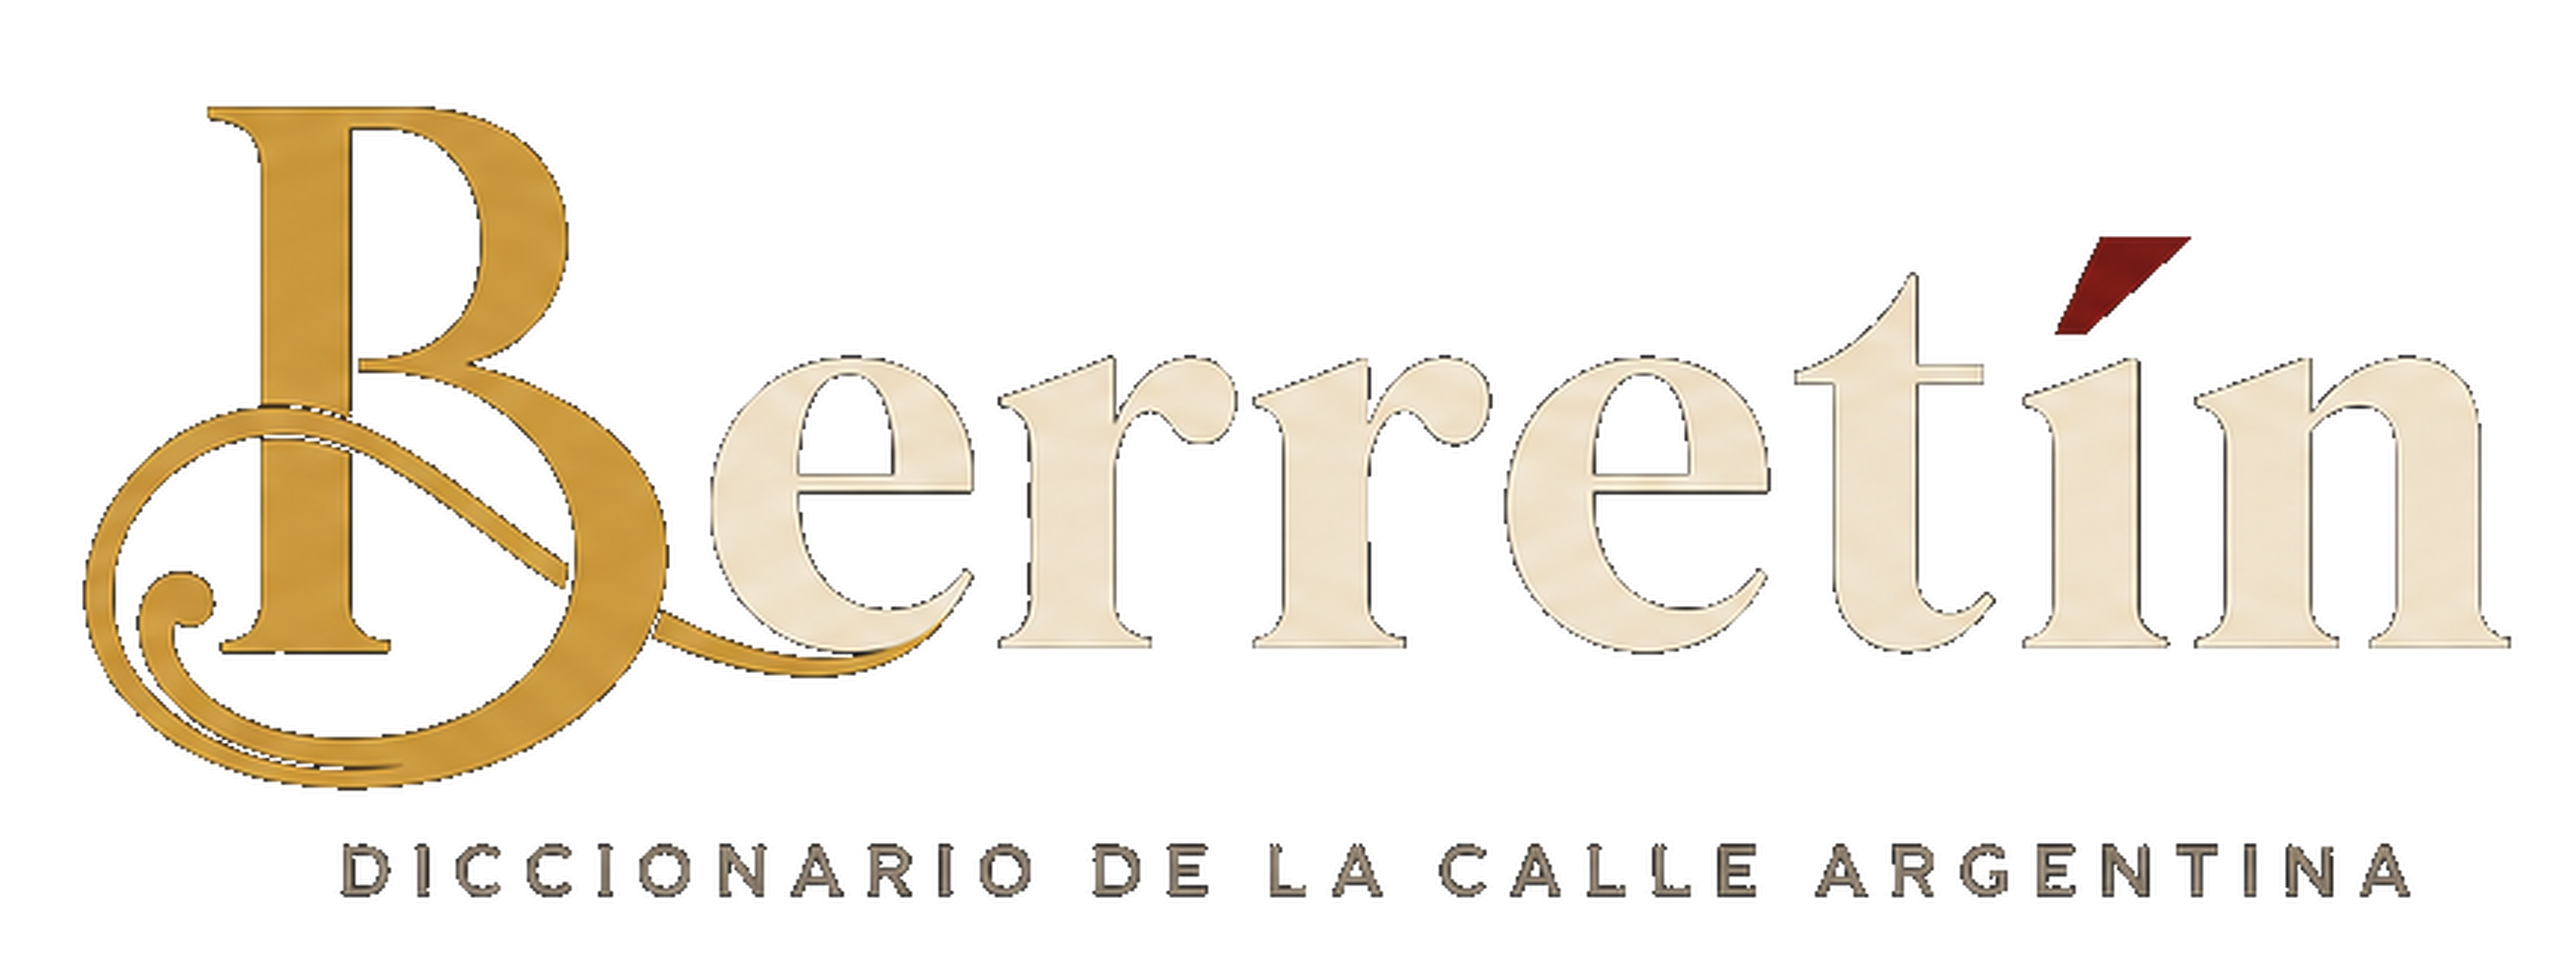
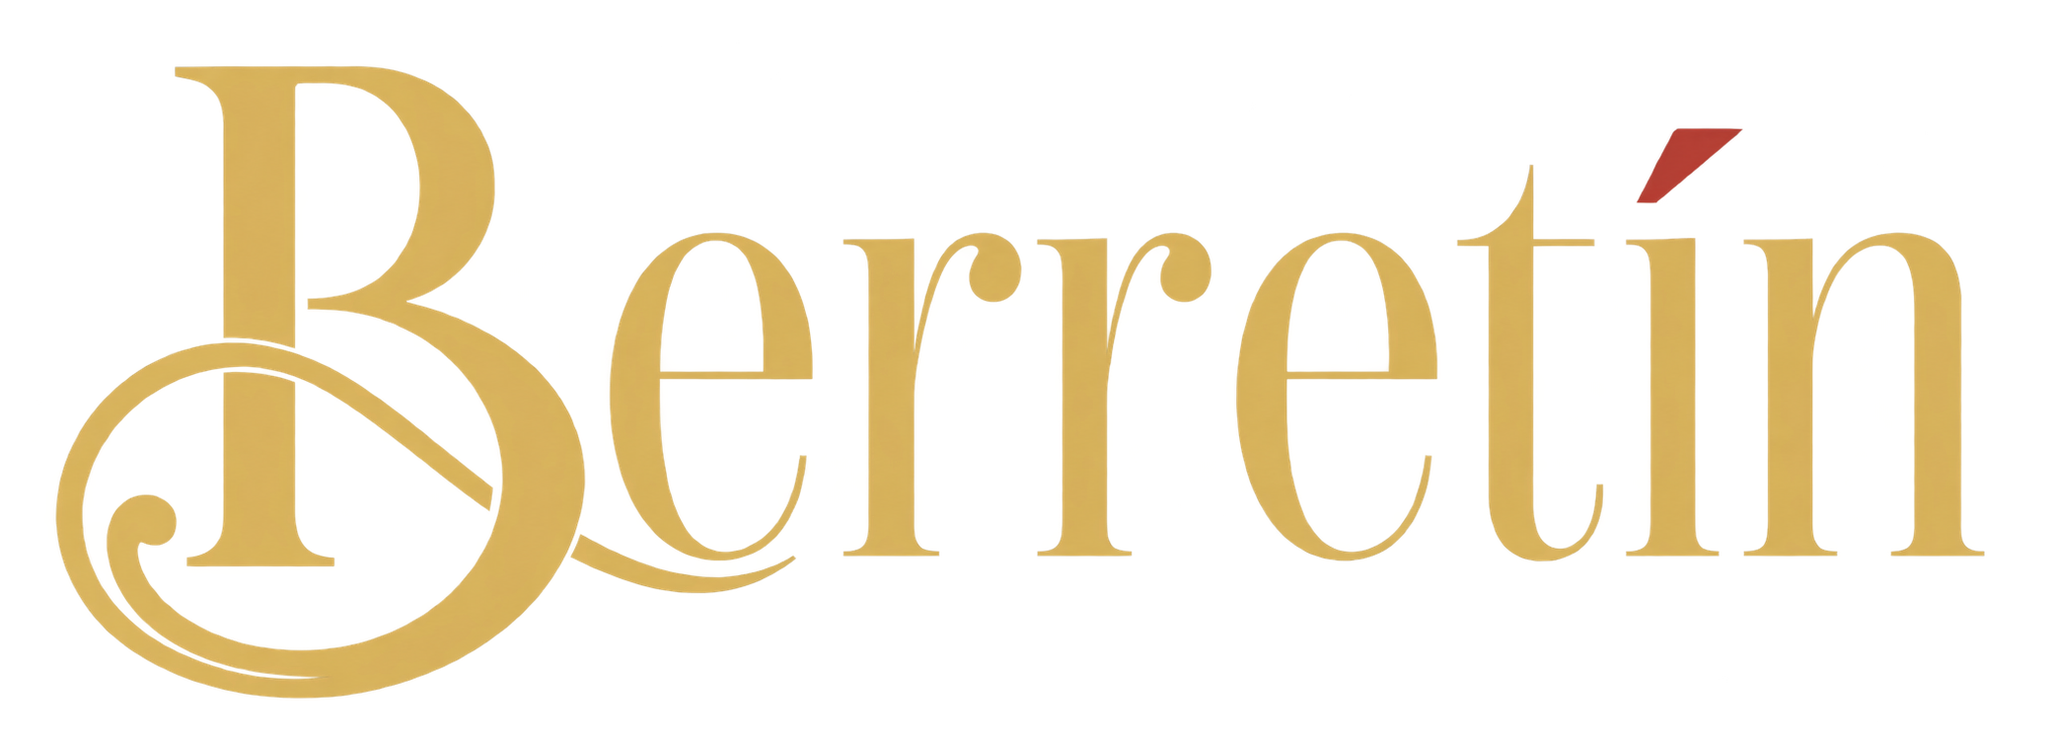
Flecha flotante al buscador + rediseño del hero cinematográfico
Flecha fija (esquina inferior derecha, fuera de la cortina transformada)
que lleva siempre al inicio exacto del buscador y filtros, revelando la
cortina primero si hace falta.

Hero: wordmark PNG final, sin eyebrow, descriptor propio en HTML,
buscador "papel de archivo" recreado en CSS sobre el SearchBar
funcional (con botón de submit opcional), entrada cinematográfica y
reflejo dorado único vía CSS, respetando prefers-reduced-motion y el
scroll/parallax existentes.

Changed region(s): [[0.0, 0.0913, 0.9851, 0.9431]]

diff --git a/app/globals.css b/app/globals.css
@@ -97,16 +97,62 @@ header { margin-bottom:32px; padding-bottom:28px; border-bottom:1px solid var(--
 .cinehero-vignette { position:absolute; inset:0; z-index:7; pointer-events:none; background:radial-gradient(ellipse at center, rgba(20,23,28,.12) 0%, rgba(20,23,28,.4) 58%, rgba(20,23,28,.74) 100%), linear-gradient(180deg, rgba(20,23,28,.34) 0%, rgba(20,23,28,.06) 38%, rgba(20,23,28,.64) 100%); }
 .cinehero-corner-shadow { position:absolute; inset:0; z-index:7; pointer-events:none; background:radial-gradient(ellipse at 0% 100%, rgba(10,12,15,.82) 0%, rgba(10,12,15,.46) 22%, transparent 55%); }
 .cinehero-content { position:relative; z-index:8; display:flex; height:100%; flex-direction:column; align-items:center; justify-content:center; padding:32px 24px; text-align:center; text-shadow:0 2px 18px rgba(0,0,0,.5); }
-.cinehero-eyebrow { max-width:420px; color:var(--crema); font-size:11px; letter-spacing:1.7px; text-transform:uppercase; }
-.cinehero-logo { margin-top:16px; filter:drop-shadow(0 4px 16px rgba(0,0,0,.42)); }
-.cinehero-search { width:min(420px, 100%); margin-top:30px; margin-bottom:0; box-shadow:0 8px 30px rgba(0,0,0,.35); }
-.cinehero-cue { position:absolute; left:50%; bottom:clamp(24px, 5vh, 48px); z-index:8; transform:translateX(-50%); border:0; background:none; color:var(--crema); cursor:pointer; font:500 11px var(--font-space-grotesk), sans-serif; letter-spacing:1.4px; text-transform:uppercase; text-shadow:0 2px 12px rgba(0,0,0,.5); display:flex; align-items:center; gap:8px; animation:cinehero-cue-bob 2.2s ease-in-out infinite; }
+.cinehero-wordmark-wrap { position:relative; display:inline-block; }
+.cinehero-logo { display:block; filter:none; mix-blend-mode:normal; }
+/* Reflejo dorado único: no toca el PNG — es una capa aparte enmascarada
+   con el mismo archivo (mask-image usa su canal alfa), así el brillo solo
+   se ve por donde ya hay letra. Arranca recién cuando el wordmark termina
+   de entrar y no se repite. */
+.cinehero-wordmark-sheen { position:absolute; inset:0; pointer-events:none; opacity:0; -webkit-mask-image:url(/brand/berretin-wordmark.png); mask-image:url(/brand/berretin-wordmark.png); -webkit-mask-size:contain; mask-size:contain; -webkit-mask-repeat:no-repeat; mask-repeat:no-repeat; -webkit-mask-position:center; mask-position:center; background:linear-gradient(115deg, transparent 42%, rgba(241,230,214,.8) 50%, transparent 58%); background-size:260% 100%; background-position:160% 0; }
+.cinehero-descriptor { margin-top:14px; color:var(--crema); font:600 clamp(11px, 1.05vw, 16px) var(--font-space-grotesk), sans-serif; letter-spacing:.28em; text-transform:uppercase; }
+
+@media (prefers-reduced-motion:no-preference) {
+  .cinehero-logo { animation:cinehero-wordmark-in 900ms ease-out both; }
+  .cinehero-descriptor { animation:cinehero-descriptor-in 700ms ease-out 550ms both; }
+  .cinehero-search.search-row { animation:cinehero-search-in 700ms ease-out 950ms both; }
+  .cinehero-wordmark-sheen { animation:cinehero-wordmark-sheen-in 1.1s ease-out 900ms forwards; }
+}
+@keyframes cinehero-wordmark-in { from { opacity:0; transform:translateY(18px); } to { opacity:1; transform:translateY(0); } }
+@keyframes cinehero-descriptor-in { from { opacity:0; filter:blur(4px); letter-spacing:.42em; } to { opacity:1; filter:blur(0); letter-spacing:.28em; } }
+@keyframes cinehero-search-in { from { opacity:0; transform:translateY(22px); filter:blur(6px); } to { opacity:1; transform:translateY(0); filter:blur(0); } }
+@keyframes cinehero-wordmark-sheen-in { 0%, 12% { opacity:0; background-position:160% 0; } 30% { opacity:1; } 78% { opacity:1; background-position:-60% 0; } 100% { opacity:0; background-position:-60% 0; } }
+
+/* Buscador cinematográfico: recreación en HTML/CSS de la referencia
+   "papel de archivo" (rectangular, doble marco, línea roja, bloque con
+   flecha) sobre el mismo <form> funcional — el buscador del diccionario
+   (.consult-search) no hereda nada de este bloque, que solo apunta a
+   .cinehero-search. */
+.cinehero-search.search-row { position:relative; width:min(680px, 76vw); height:74px; margin-top:26px; margin-bottom:0; padding:0 10px 0 30px; gap:14px; border:1px solid rgba(23,22,21,.4); border-radius:0; background-color:#E6D4AA; background-image:linear-gradient(160deg, #F0DFB6 0%, #E6D4AA 62%); box-shadow:inset 0 0 0 3px rgba(241,230,206,.65), inset 0 0 0 4px rgba(23,22,21,.14); clip-path:polygon(7px 0, calc(100% - 7px) 0, 100% 7px, 100% calc(100% - 7px), calc(100% - 7px) 100%, 7px 100%, 0 calc(100% - 7px), 0 7px); filter:drop-shadow(0 16px 30px rgba(0,0,0,.35)); transition:filter .25s ease, background-color .25s ease; }
+.cinehero-search.search-row::before { content:""; position:absolute; left:10px; top:14px; bottom:14px; width:3px; background:#A92D22; transition:top .25s ease, bottom .25s ease; }
+.cinehero-search.search-row:focus-within { background-color:#F0DFB6; filter:drop-shadow(0 18px 36px rgba(0,0,0,.42)); }
+.cinehero-search.search-row:focus-within::before { top:10px; bottom:10px; }
+.cinehero-search.search-row > svg { stroke:#171615; opacity:1; }
+.cinehero-search.search-row input { color:#171615; font-family:var(--font-fraunces), serif; font-size:17px; }
+.cinehero-search.search-row input::placeholder { color:#171615; opacity:.72; font-family:var(--font-fraunces), serif; }
+.cinehero-search .search-submit-btn { display:flex; flex-shrink:0; align-items:center; justify-content:center; width:58px; height:58px; margin-left:auto; border:0; background:#171615; color:#D3A548; cursor:pointer; clip-path:polygon(5px 0, calc(100% - 5px) 0, 100% 5px, 100% calc(100% - 5px), calc(100% - 5px) 100%, 5px 100%, 0 calc(100% - 5px), 0 5px); }
+.cinehero-search .search-submit-btn svg { width:20px; height:20px; fill:none; stroke:currentColor; stroke-width:2; stroke-linecap:round; stroke-linejoin:round; transition:transform .2s ease; }
+.cinehero-search.search-row:focus-within .search-submit-btn svg { transform:translateX(4px); }
+
+.cinehero-cue { position:absolute; left:50%; bottom:clamp(24px, 5vh, 48px); z-index:8; transform:translateX(-50%); border:0; background:none; color:var(--crema); cursor:pointer; font:500 11px var(--font-space-grotesk), sans-serif; letter-spacing:1.4px; text-transform:uppercase; text-shadow:0 2px 14px rgba(0,0,0,.62); display:flex; align-items:center; gap:8px; animation:cinehero-cue-bob 2.2s ease-in-out infinite; }
 .cinehero-cue span { color:var(--brass); font-size:14px; }
 @keyframes cinehero-cue-bob { 0%, 100% { transform:translate(-50%, 0); } 50% { transform:translate(-50%, 6px); } }
-.cinehero-audio-toggle { position:absolute; right:clamp(20px, 5vw, 56px); bottom:clamp(20px, 5vw, 48px); z-index:8; display:grid; width:38px; height:38px; place-items:center; border:1px solid rgba(237,230,214,.5); border-radius:50%; background:rgba(20,23,28,.3); color:var(--crema); cursor:pointer; text-shadow:0 2px 12px rgba(0,0,0,.5); transition:color .2s ease, border-color .2s ease, background-color .2s ease; }
-.cinehero-audio-toggle:hover { border-color:var(--crema); color:var(--brass); background:rgba(20,23,28,.5); }
+.cinehero-audio-toggle { position:absolute; right:clamp(20px, 5vw, 56px); bottom:clamp(20px, 5vw, 48px); z-index:8; display:grid; width:38px; height:38px; place-items:center; border:1px solid rgba(237,230,214,.65); border-radius:50%; background:rgba(20,23,28,.42); color:var(--crema); cursor:pointer; text-shadow:0 2px 14px rgba(0,0,0,.62); transition:color .2s ease, border-color .2s ease, background-color .2s ease; }
+.cinehero-audio-toggle:hover { border-color:var(--crema); color:var(--brass); background:rgba(20,23,28,.6); }
 .cinehero-audio-toggle svg { width:16px; height:16px; fill:none; stroke:currentColor; stroke-linecap:round; stroke-linejoin:round; stroke-width:1.6; }
 .cinehero-audio-toggle > span { color:var(--brass); font-size:20px; line-height:1; }
+
+@media (max-width:640px) {
+  .cinehero-search.search-row { width:calc(100vw - 28px); height:62px; padding:0 8px 0 24px; }
+  .cinehero-search .search-submit-btn { width:48px; height:48px; }
+}
+
+/* Flecha flotante fija (fuera de la cortina transformada, así queda fija
+   al viewport de verdad): siempre visible, apilada arriba del botón de
+   audio para no superponerse mientras dura el splash. */
+.dictionary-jump-btn { position:fixed; right:clamp(16px, 5vw, 40px); bottom:clamp(72px, 12vh, 104px); z-index:20; display:grid; width:40px; height:40px; place-items:center; border:1px solid rgba(237,230,214,.3); border-radius:50%; background:rgba(11,13,16,.55); color:var(--crema); cursor:pointer; transition:color .2s ease, border-color .2s ease, background-color .2s ease; }
+.dictionary-jump-btn:hover { border-color:var(--brass); color:var(--brass); background:rgba(11,13,16,.75); }
+.dictionary-jump-btn:focus-visible { outline:1px solid var(--brass); outline-offset:3px; }
+.dictionary-jump-btn svg { width:16px; height:16px; fill:none; stroke:currentColor; stroke-width:1.8; stroke-linecap:round; stroke-linejoin:round; }
 
 /* El diccionario real como cortina: mientras el scroll está dentro del
    recorrido, fixed + transform lo hace ascender tapando el hero; una vez

diff --git a/components/CinematicHero.tsx b/components/CinematicHero.tsx
@@ -266,7 +266,37 @@ export function CinematicHero({ query, onQueryChange }: CinematicHeroProps) {
     shellRef.current?.scrollIntoView({ behavior: reduceMotion ? "auto" : "smooth", block: "end" });
   };
 
+  // Lleva directo al inicio del buscador + filtros, nunca al splash ni al
+  // principio de la página. Si la cortina todavía no se reveló (se hizo
+  // clic desde el splash), primero se dispara el mismo scroll que "deslizá
+  // para entrar" y se espera a que cruce su propio umbral de revelado
+  // (mismo data-revealed que ya expone CinematicHero) antes de alinear el
+  // buscador arriba — si no, "controls" todavía cuelga de la cortina en
+  // position:fixed y ese primer scrollIntoView no movería nada real.
+  const scrollToSearch = () => {
+    const behavior = reduceMotion ? "auto" : "smooth";
+    const goToControls = () => {
+      document.getElementById("dictionary-search")?.scrollIntoView({ behavior, block: "start" });
+    };
+    if (isRevealed) {
+      goToControls();
+      return;
+    }
+    shellRef.current?.scrollIntoView({ behavior, block: "end" });
+    let attempts = 0;
+    const waitForReveal = () => {
+      attempts += 1;
+      if (document.querySelector(".cinehero-curtain")?.getAttribute("data-revealed") === "true" || attempts > 60) {
+        goToControls();
+        return;
+      }
+      requestAnimationFrame(waitForReveal);
+    };
+    requestAnimationFrame(waitForReveal);
+  };
+
   return (
+    <>
     <section ref={shellRef} className="cinehero-shell" style={{ height: `calc(100svh + ${revealVh}${revealUnit})` }}>
       <div ref={stickyRef} className="cinehero-sticky" style={{ visibility: isRevealed ? "hidden" : "visible" }}>
         <motion.div className="cinehero-layers" aria-hidden="true" style={{ opacity: sceneOpacity, filter: sceneFilter }}>
@@ -292,18 +322,21 @@ export function CinematicHero({ query, onQueryChange }: CinematicHeroProps) {
         <div className="cinehero-corner-shadow" aria-hidden="true" />
 
         <motion.div className="cinehero-content" style={{ opacity: contentOpacity, x: contentParallaxX, y: contentY }}>
-          <p className="cinehero-eyebrow">lunfardo porteño</p>
-          <Image
-            className="cinehero-logo"
-            src="/brand/berretin-wordmark.png"
-            alt="Berretín — diccionario de la calle argentina"
-            width={2610}
-            height={990}
-            priority
-            sizes="(max-width: 640px) 78vw, 480px"
-            style={{ width: "clamp(240px, 46vw, 480px)", height: "auto" }}
-          />
-          <SearchBar id="hero-search" className="cinehero-search" value={query} onChange={onQueryChange} onSubmit={enterDictionary} />
+          <div className="cinehero-wordmark-wrap">
+            <Image
+              className="cinehero-logo"
+              src="/brand/berretin-wordmark.png"
+              alt="Berretín"
+              width={2079}
+              height={756}
+              priority
+              sizes="(max-width: 640px) 88vw, 720px"
+              style={{ width: "min(clamp(520px, 45vw, 720px), 88vw)", height: "auto", objectFit: "contain" }}
+            />
+            <span className="cinehero-wordmark-sheen" aria-hidden="true" />
+          </div>
+          <p className="cinehero-descriptor">diccionario de la calle argentina</p>
+          <SearchBar id="hero-search" className="cinehero-search" showSubmit value={query} onChange={onQueryChange} onSubmit={enterDictionary} />
         </motion.div>
 
         <motion.button
@@ -351,5 +384,16 @@ export function CinematicHero({ query, onQueryChange }: CinematicHeroProps) {
         </div>
       </motion.div>
     </section>
+    <button
+      type="button"
+      className="dictionary-jump-btn"
+      onClick={scrollToSearch}
+      aria-label="Ir al buscador y filtros"
+    >
+      <svg aria-hidden="true" viewBox="0 0 24 24">
+        <path d="M12 4v15M5 12l7 7 7-7" />
+      </svg>
+    </button>
+    </>
   );
 }

diff --git a/components/SearchBar.tsx b/components/SearchBar.tsx
@@ -6,9 +6,13 @@ type SearchBarProps = {
   onSubmit?: () => void;
   id?: string;
   className?: string;
+  // Solo la variante cinematográfica del hero pide el bloque con flecha a
+  // la derecha (referencia visual del sello papel) — el buscador del
+  // diccionario (consult-search) sigue exactamente como estaba.
+  showSubmit?: boolean;
 };
 
-export function SearchBar({ value, onChange, onSubmit, id = "search", className }: SearchBarProps) {
+export function SearchBar({ value, onChange, onSubmit, id = "search", className, showSubmit = false }: SearchBarProps) {
   return (
     <form
       className={`search-row${className ? ` ${className}` : ""}`}
@@ -22,6 +26,13 @@ export function SearchBar({ value, onChange, onSubmit, id = "search", className 
         <line x1="21" y1="21" x2="16.65" y2="16.65" />
       </svg>
       <input id={id} type="search" value={value} onChange={(event) => onChange(event.target.value)} placeholder="Buscar una palabra o expresión…" aria-label="Buscar una palabra o expresión" />
+      {showSubmit && (
+        <button type="submit" className="search-submit-btn" aria-label="Buscar">
+          <svg aria-hidden="true" viewBox="0 0 24 24">
+            <path d="M5 12h14M13 6l6 6-6 6" />
+          </svg>
+        </button>
+      )}
     </form>
   );
 }

diff --git a/components/Dictionary.tsx b/components/Dictionary.tsx
@@ -336,7 +336,7 @@ export function Dictionary({ query, onQueryChange }: DictionaryProps) {
   return (
     <>
       <DictionaryIntro />
-      <div className="controls">
+      <div id="dictionary-search" className="controls">
         <SearchBar value={query} onChange={onQueryChange} className="consult-search" />
         <p className="consult-results-count">
           {total.toLocaleString("es-AR")} {total === 1 ? "entrada" : "entradas"}
